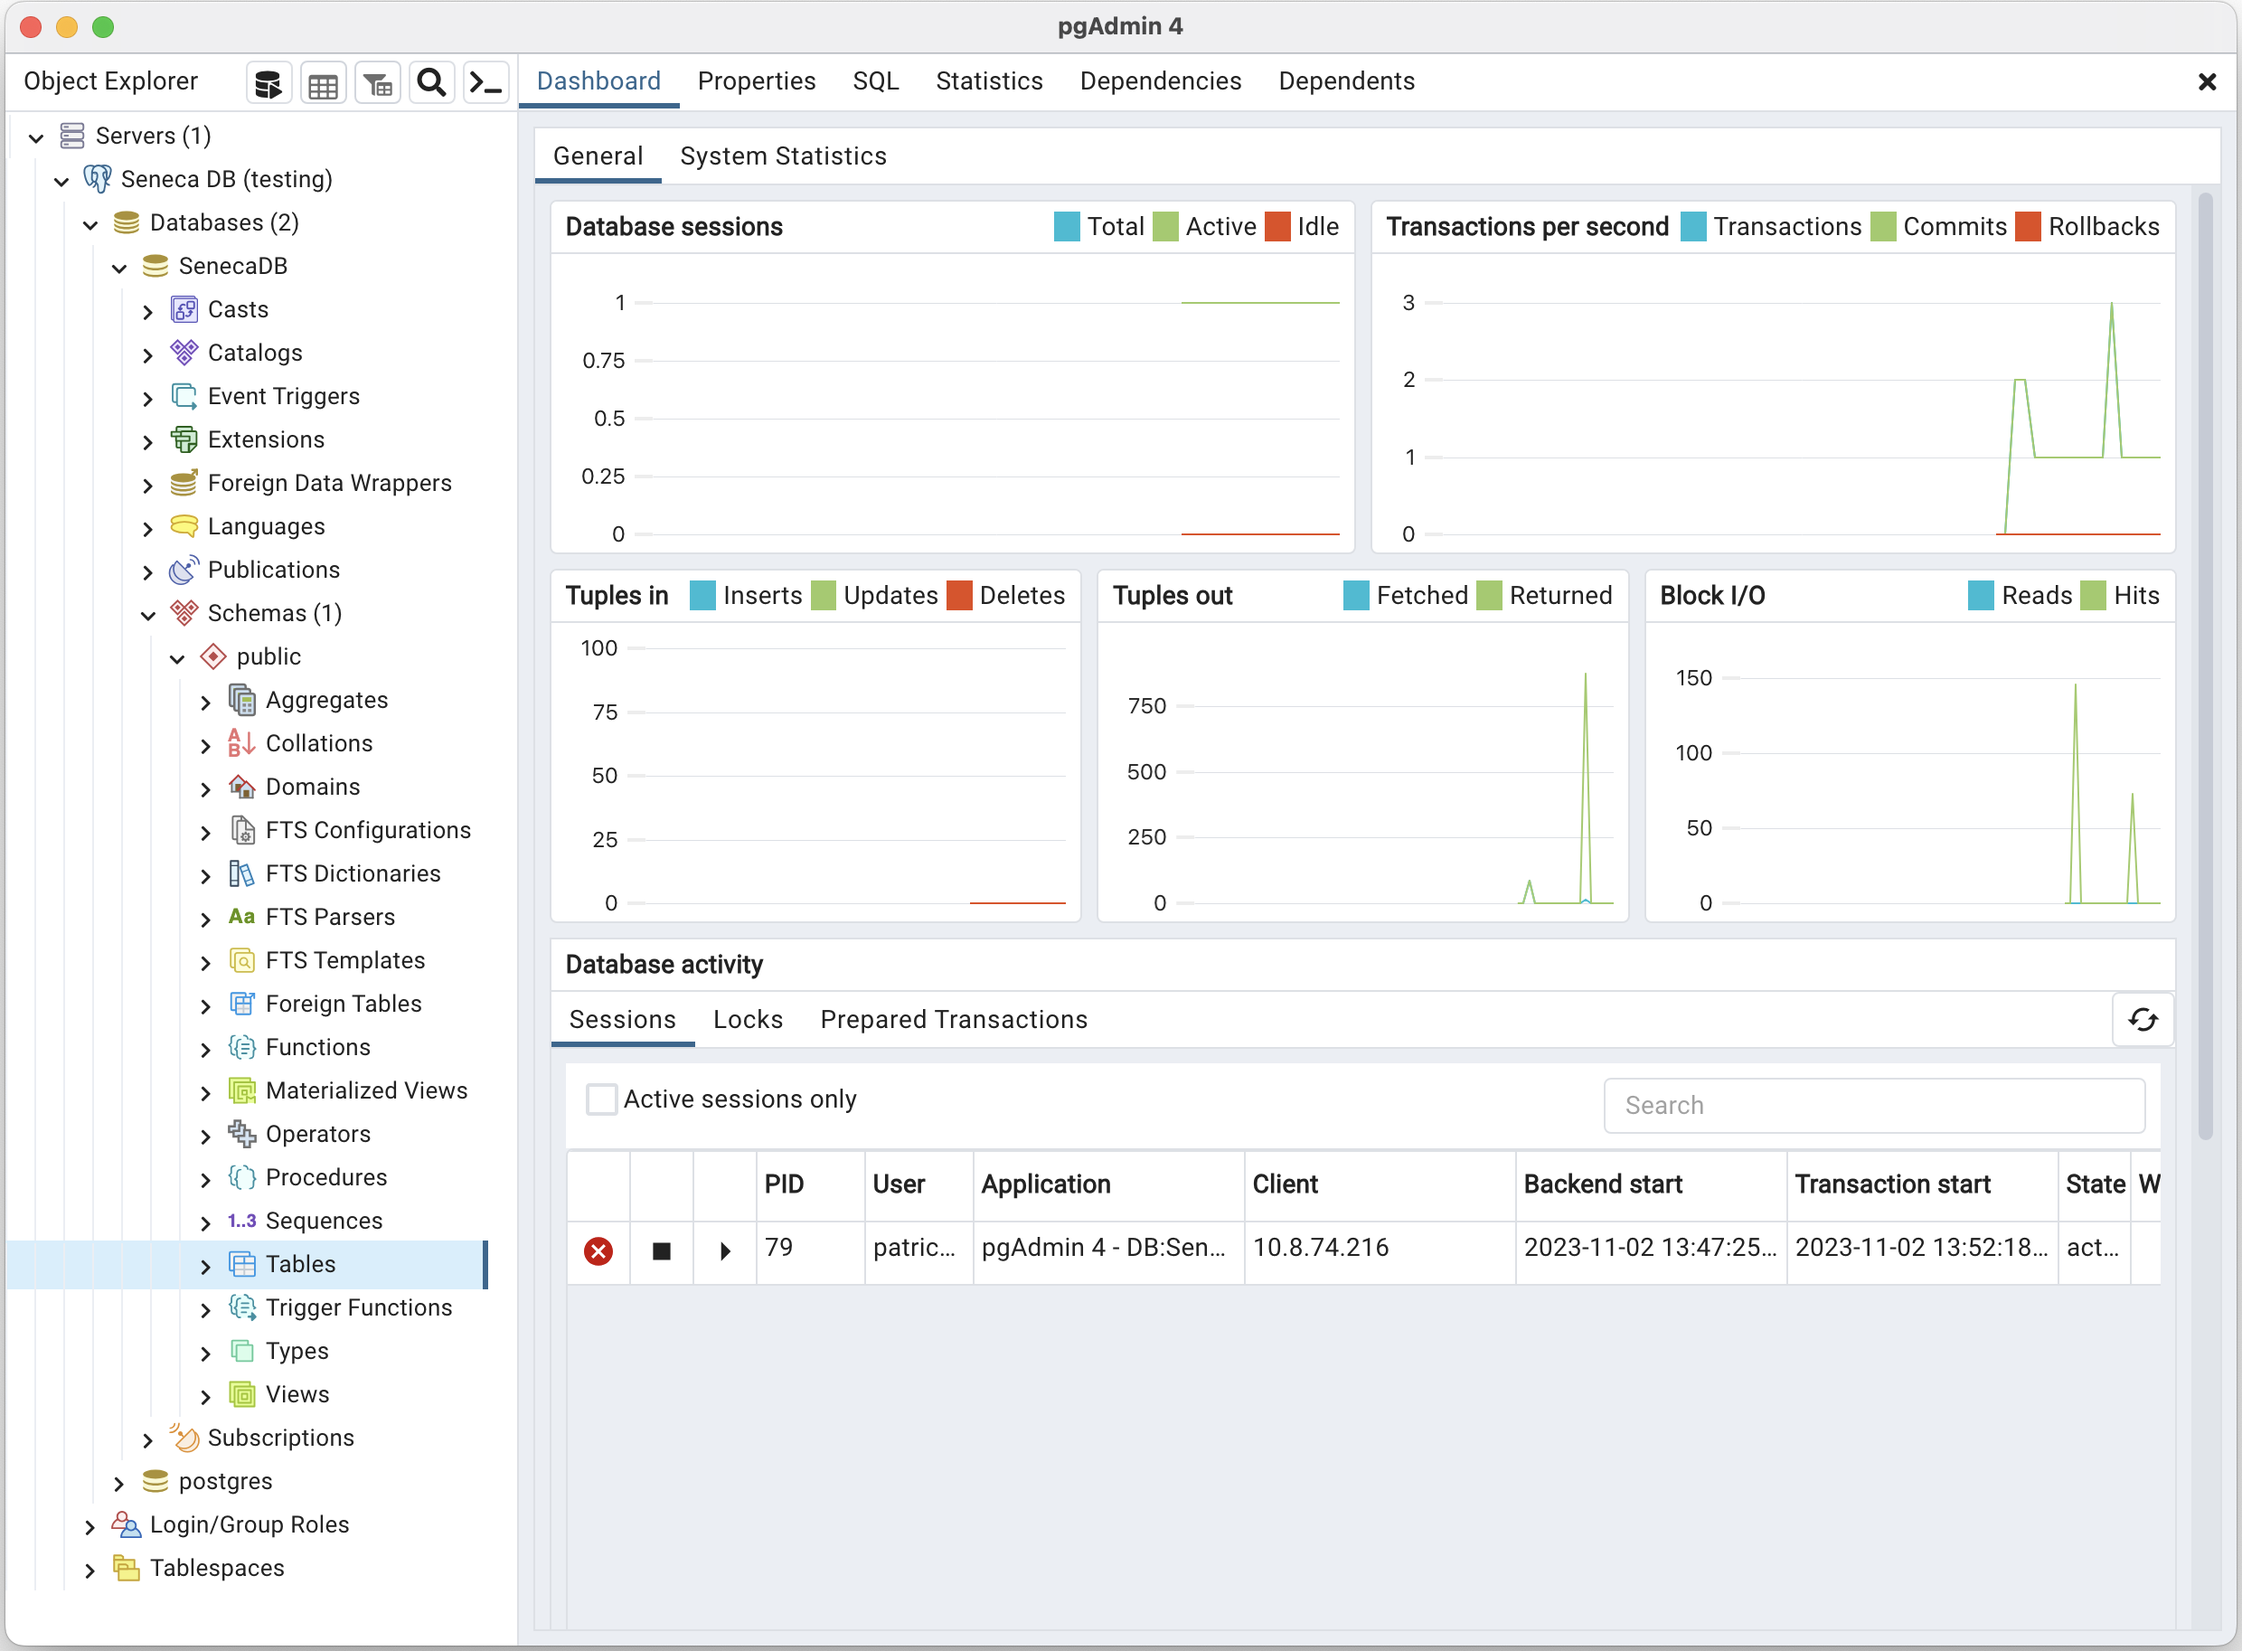
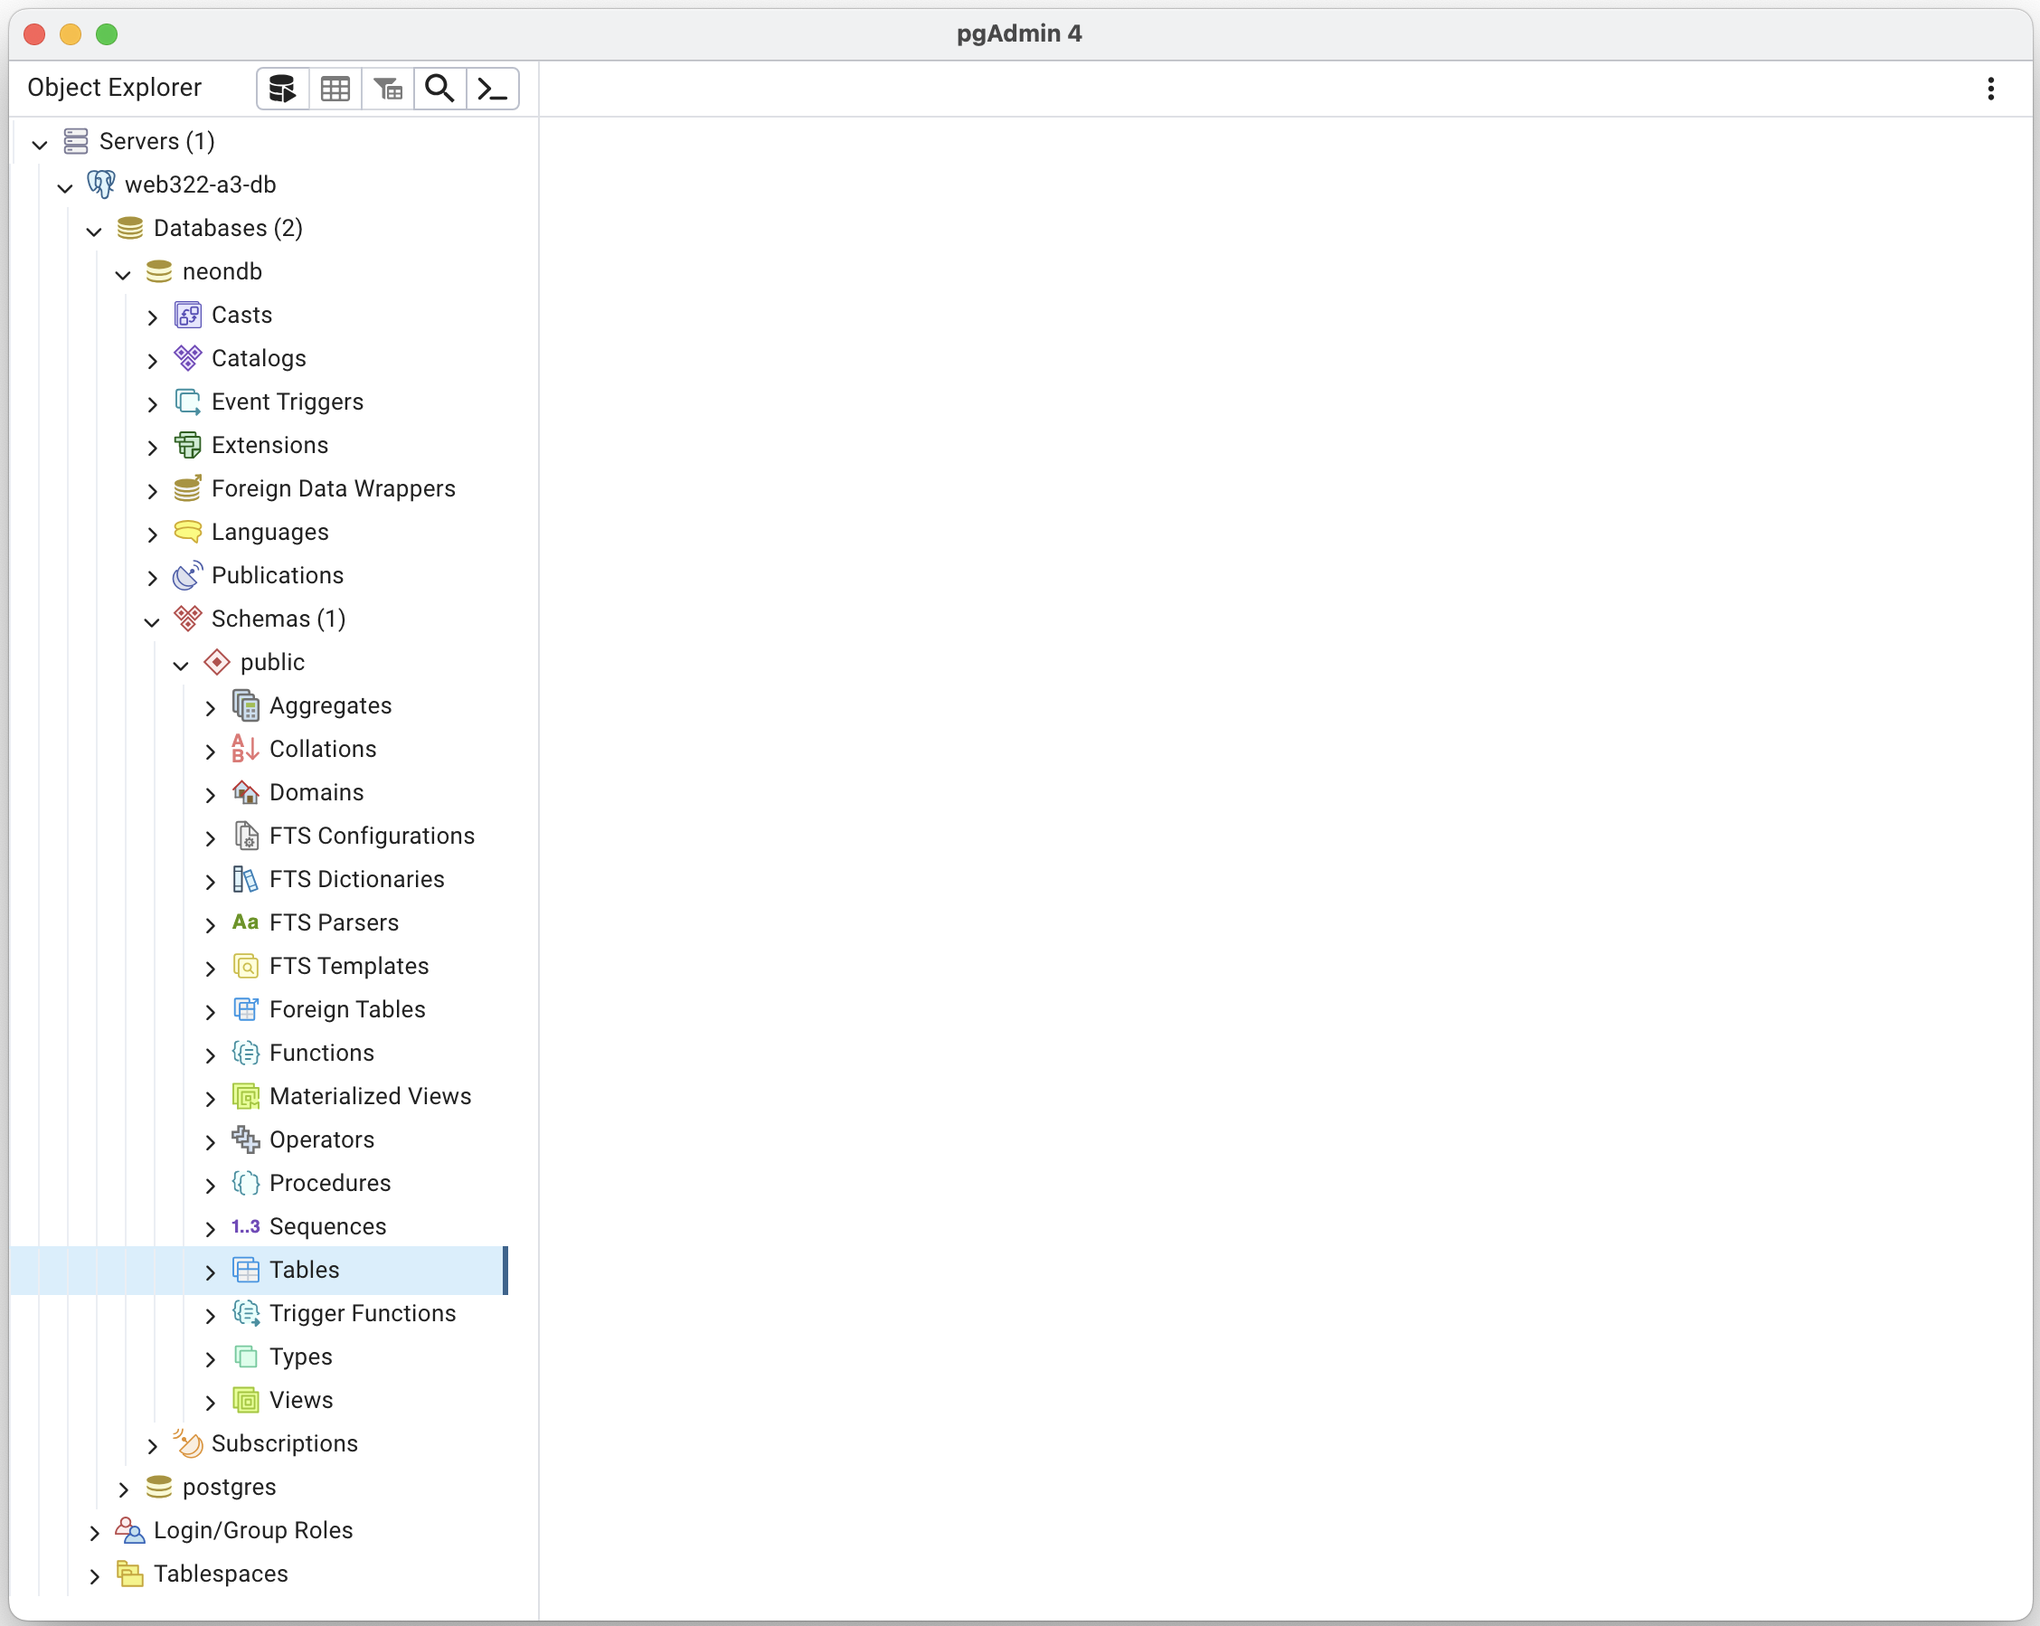
updated neon instructions

diff --git a/docs/Relational-Database-Postgres/introduction-to-postgres.md b/docs/Relational-Database-Postgres/introduction-to-postgres.md
@@ -21,17 +21,22 @@ From the PostgreSQL site, [postgresql.org](https://www.postgresql.org):
 
 This is a great choice for us for multiple reasons; it is open source, highly available, standards compliant and most importantly, works nicely with node.js.
 
-To get started, proceed to [https://neon.tech](https://neon.tech) and click on the **"Log in"** link at the top and log in with your GitHub account. Once you're logged in, follow the below steps to set up the database:
+To get started, proceed to [https://vercel.com/](https://vercel.com/) and click on the **"Log in"** link at the top and log in with your GitHub account. 
 
-1. in the "Get started with Neon for Free" page, enter a value for project Name, ie: **Seneca** and Database Name, ie: **SenecaDB** (We can add more databases later)
+Once you're logged in, click on the **"Integrations"** tab (next to "Projects") and choose the **"Browse Marketplace"** option and search for "Neon".  This should return a "storage" integration called "Neon".  Click this and choose **"Install"**.
 
-2. Leave "region" as the default value and Click the **Create Project** Button.
+Next, follow the below steps to set up the database:
 
-3. At the next screen, you should see a dropdown with "Connection String" selected. Click this and choose **Parameters only**.
 
-4. Next, click the **eye icon** to reveal your password (**NOTE** Also consider checking the "Pooled connection" checkbox if this app will be deployed in a serverless environment, such as Vercel)
+1. Choose the recommended "Region" option
 
-5. Copy the **PGHOST**, **PGDATABASE**, **PGUSER** and **PGPASSWORD** values
+2. Ensure that the "Free' plan is selected as the "Installation Plan" (this should be the default) and click **"Continue""**
+
+3. Enter a value for the **"Database Name"** and click **"Create"**.  Once it has completed, click **"Done"**
+
+4. You will now be shown a "Quickstart" Screen with the tab "env.local" selected.  Click the "Show secret" button to reveal the values.
+
+5. Finally, copy the **PGHOST**, **PGUSER**, **PGDATABASE**  and **PGPASSWORD** values (only) under **"# Parameters for constructing your own connection string"**
 
 ## pgAdmin
 
@@ -53,7 +58,7 @@ Once it is installed and you have opened the app, we need to configure it to con
     | **(Connection Tab) Username**             | Enter your "PGUSER" value here                                                                                  |
     | **(Connection Tab) Password**             | Enter your "PGPASSWORD" value here                                                                              |
 
-    Once you have entered all of your information, hit the "Save" button and click "Servers" in the left pane to expand your server connections. If you entered valid information for the above fields, you should see your Neon.tech Postgres DB Connection. Expand this item and the following **"Databases (2)"** item, and you should see your database. Expand this item, as well as the nested **"Schemas (1)"** item, followed by the **"public"** item, and you should be presented with something that looks like this:
+    Once you have entered all of your information, hit the "Save" button and click "Servers" in the left pane to expand your server connections. If you entered valid information for the above fields, you should see your Neon.tech Postgres DB Connection. Expand this item and the following **"Databases (2)"** item, and you should see a database called "neondb". Expand this item, as well as the nested **"Schemas (1)"** item, followed by the **"public"** item, and you should be presented with something that looks like this:
 
     ![DB in pgAdmin](/img/pgAdmin4.png)
 
